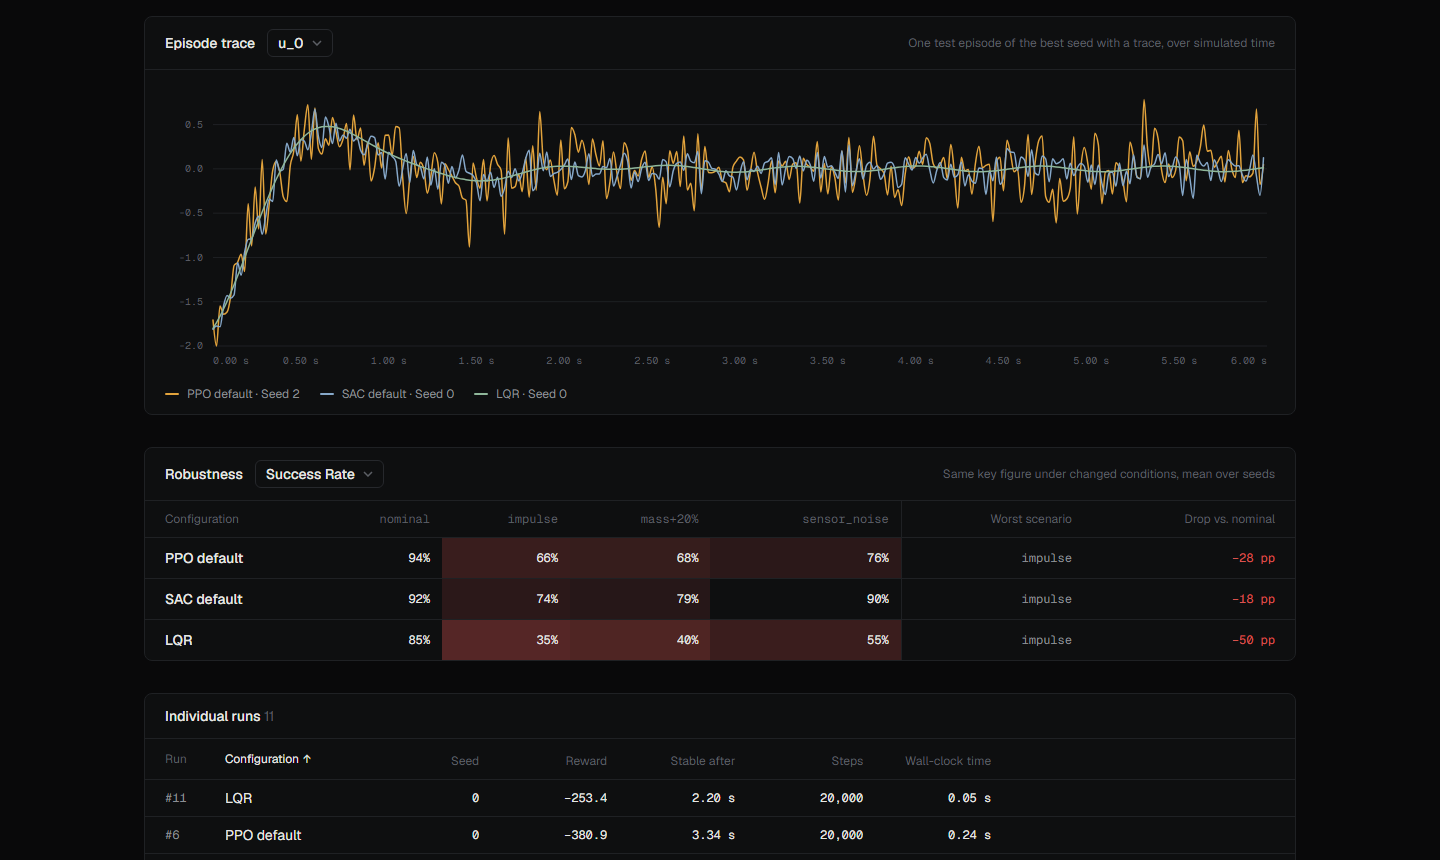
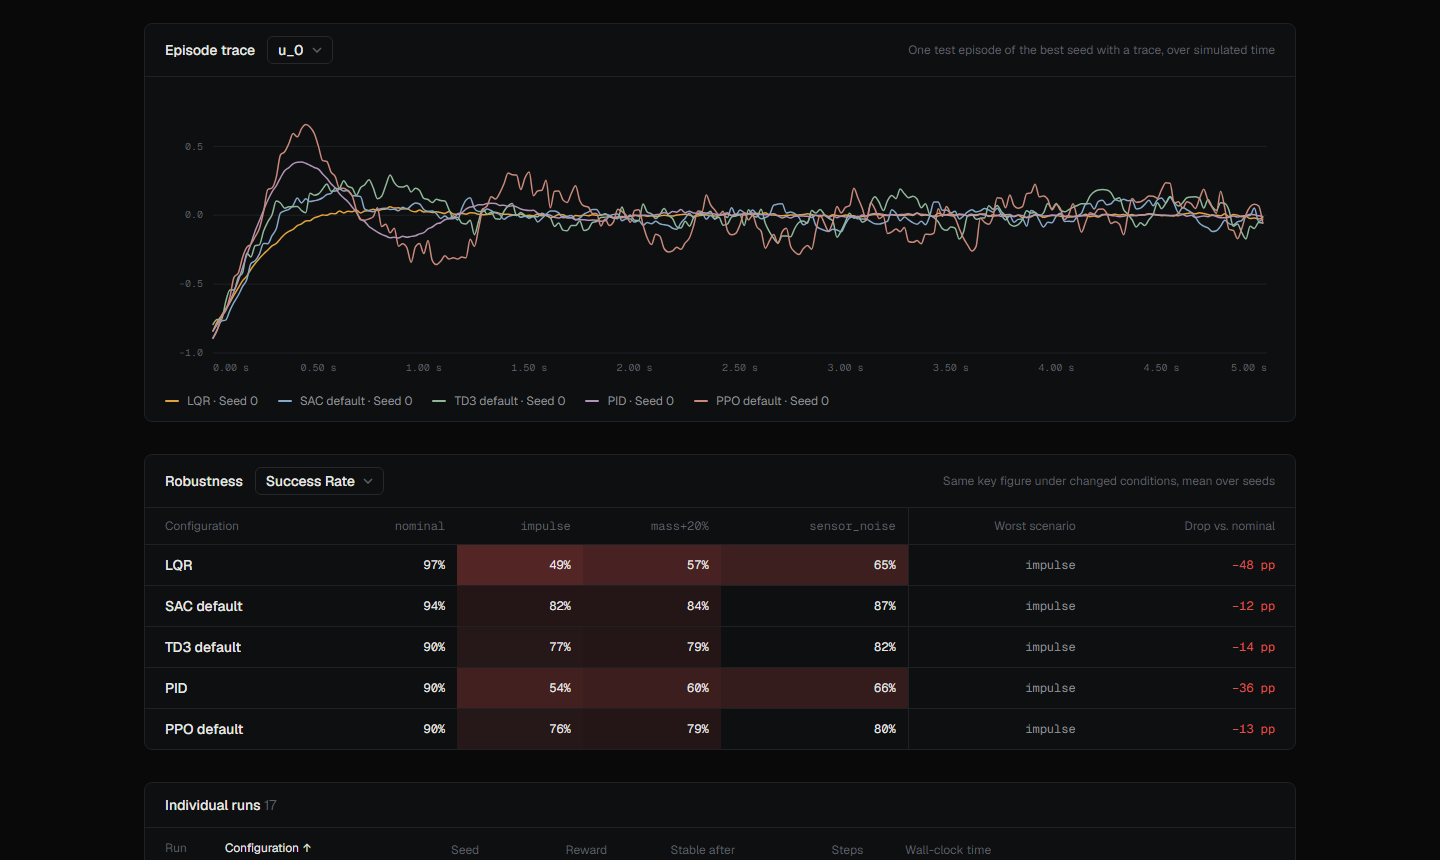
Demo: new GIF and screenshots with invented data in two categories
generate_demo_data.py creates six experiments (stabilization, positioning)
with SAC, PPO and TD3 learning curves over five seeds; LQR, PID and IK+PD
do not train and appear as reference lines.

diff --git a/docs/demo/generate_demo_data.py b/docs/demo/generate_demo_data.py
@@ -1,0 +1,146 @@
+"""Erzeugt die Demodaten für Screenshots und das Demo-GIF. ALLE WERTE SIND ERFUNDEN.
+
+Zwei Kategorien mit je drei Experimenten. RL-Controller (SAC, PPO, TD3) lernen über die Steps; klassische Regler
+(LQR, PID, IK+PD) trainieren nicht: Sie haben trains=False und nur einen einzigen Messpunkt, also keinen Verlauf.
+
+Aufruf gegen ein Backend mit LEERER Datenbank (nicht gegen deine echten Daten!):
+    python docs/demo/generate_demo_data.py --api http://127.0.0.1:8001
+"""
+
+import argparse
+import math
+import random
+
+import requests
+
+TOTAL_STEPS = 1_000_000
+LOG_EVERY = 10_000
+SCENARIOS = {"nominal": 0.0, "mass+20%": 1.0, "sensor_noise": 0.8, "impulse": 1.2}
+
+# Pro Controller: Lerngeschwindigkeit, Endniveau, Rechenzeit pro Step (s), Unruhe der Stellgröße,
+# Empfindlichkeit gegenüber Störungen, Stellaufwand.
+RL = {
+    "SAC": {"speed": 5.0, "level": 0.97, "cost": 0.0024, "jitter": 0.10, "sensitivity": 0.08, "effort": 1.0},
+    "PPO": {"speed": 2.2, "level": 0.93, "cost": 0.0007, "jitter": 0.22, "sensitivity": 0.10, "effort": 1.35},
+    "TD3": {"speed": 3.8, "level": 0.95, "cost": 0.0020, "jitter": 0.14, "sensitivity": 0.12, "effort": 1.15},
+}
+# Test-Episode je Controller: Abklingrate und Kreisfrequenz des Regelfehlers
+RESPONSE = {"SAC": (2.6, 5.0), "PPO": (1.5, 6.0), "TD3": (2.0, 4.4), "LQR": (3.4, 3.0), "PID": (1.8, 6.8), "IK+PD": (3.0, 4.0)}
+HYPERPARAMETERS = {
+    "SAC": {"learning_rate": 3e-4, "gamma": 0.99, "batch_size": 256, "net_arch": [256, 256]},
+    "PPO": {"learning_rate": 3e-4, "gamma": 0.99, "n_steps": 2048, "clip_range": 0.2},
+    "TD3": {"learning_rate": 1e-3, "gamma": 0.99, "policy_delay": 2, "target_noise": 0.2},
+    "LQR": {"Q": "diag(10, 1, 10, 1)", "R": 0.1},
+    "PID": {"Kp": 12.0, "Ki": 0.4, "Kd": 1.8},
+    "IK+PD": {"Kp": 40.0, "Kd": 4.0},
+}
+
+EXPERIMENTS = [
+    # Stabilisierung: klassische Regler sind nominal sehr gut, aber empfindlich gegenüber Störungen
+    {"name": "Cart-pole balance", "environment": "CartPole-continuous-v1", "category": "stabilization",
+     "difficulty": 0.00, "classical": {"LQR": (0.99, 0.30, 0.55), "PID": (0.95, 0.24, 0.70)}},
+    {"name": "Ball balancer", "environment": "BallBalancer-v0", "category": "stabilization",
+     "difficulty": 0.04, "classical": {"LQR": (0.97, 0.40, 0.60), "PID": (0.90, 0.30, 0.80)}},
+    {"name": "Inverted pendulum", "environment": "InvertedPendulum-v4", "category": "stabilization",
+     "difficulty": 0.02, "classical": {"LQR": (1.00, 0.28, 0.50), "PID": (0.96, 0.22, 0.65)}},
+    # Positionierung: der klassische IK+PD-Regler ist schnell, aber bei Störungen deutlich schwächer
+    {"name": "Reacher 2-DOF", "environment": "Reacher-v5", "category": "positioning",
+     "difficulty": 0.03, "classical": {"IK+PD": (0.92, 0.35, 0.75)}},
+    {"name": "Robot arm 3-DOF", "environment": "Arm3DOF-v0", "category": "positioning",
+     "difficulty": 0.08, "classical": {"IK+PD": (0.85, 0.45, 0.85)}},
+    {"name": "Drone to waypoint", "environment": "QuadrotorWaypoint-v0", "category": "positioning",
+     "difficulty": 0.06, "classical": {"PID": (0.80, 0.50, 0.90)}},
+]
+
+
+def clamp(value: float) -> float:
+    return max(0.0, min(1.0, value))
+
+
+def trace(controller: str, jitter: float, rng: random.Random) -> list[dict]:
+    """Test-Episode: Regelfehler schwingt gedämpft aus, zwei Stellgrößen regeln dagegen."""
+    points = []
+    noise = [0.0, 0.0]  # geglättetes Rauschen je Stellgröße, damit u nicht springt
+    for i in range(250):
+        t = i * 0.02
+        decay, omega = RESPONSE[controller]
+        error = 0.6 * math.exp(-decay * t) * math.cos(omega * t) + rng.gauss(0, 0.004 + jitter * 0.01)
+        points.append({"signal": "error", "t": round(t, 3), "value": round(error, 5)})
+        for axis in (0, 1):
+            noise[axis] = 0.85 * noise[axis] + rng.gauss(0, jitter * 0.3)
+            u = -1.4 * error * (1 if axis == 0 else 0.6) + noise[axis]
+            points.append({"signal": f"u_{axis}", "t": round(t, 3), "value": round(max(-1, min(1, u)), 5)})
+    return points
+
+
+def post(api: str, path: str, body):
+    res = requests.post(f"{api}{path}", json=body, timeout=60)
+    res.raise_for_status()
+    return res.json()
+
+
+def main() -> None:
+    parser = argparse.ArgumentParser()
+    parser.add_argument("--api", default="http://127.0.0.1:8001")
+    api = parser.parse_args().api
+
+    for spec in EXPERIMENTS:
+        experiment = post(api, "/experiments", {
+            "name": spec["name"], "environment": spec["environment"], "category": spec["category"],
+            "description": "Demo data generated by docs/demo/generate_demo_data.py. All values are invented.",
+        })
+        rng = random.Random(spec["name"])
+        difficulty = spec["difficulty"]
+
+        # RL: fünf Seeds, Lernkurven über 1 Mio. Steps
+        for controller, p in RL.items():
+            for seed in range(5):
+                speed = p["speed"] * rng.uniform(0.7, 1.3) * (1 - 2 * difficulty)
+                level = clamp(p["level"] - difficulty + rng.gauss(0, 0.015))
+                cost = p["cost"] * rng.uniform(0.85, 1.15)
+                metrics = []
+                for step in range(0, TOTAL_STEPS + 1, LOG_EVERY):
+                    progress = 1 - math.exp(-speed * step / TOTAL_STEPS)
+                    time = round(step * cost, 2)
+                    success = clamp(level * progress + rng.gauss(0, 0.018))
+                    metrics += [
+                        {"name": "success_rate", "step": step, "value": round(success, 4), "time": time},
+                        {"name": "episode_reward", "step": step, "value": round(-900 + 780 * progress + rng.gauss(0, 18), 2), "time": time},
+                        {"name": "control_effort", "step": step, "value": round(p["effort"] * (2.2 - progress) * 10 + rng.gauss(0, 0.4), 3), "time": time},
+                    ]
+                run = post(api, "/runs", {
+                    "experiment_id": experiment["id"], "controller": controller, "name": f"{controller} default",
+                    "seed": seed, "reward": metrics[-2]["value"], "hyperparameters": HYPERPARAMETERS[controller],
+                    "stability_time": round(rng.uniform(0.6, 1.8), 2) if level > 0.8 else None,
+                    "num_steps": TOTAL_STEPS, "duration": round(TOTAL_STEPS * cost, 1),
+                })
+                post(api, f"/runs/{run['id']}/metrics", metrics)
+                post(api, f"/runs/{run['id']}/evaluations", [
+                    {"scenario": s, "name": "success_rate", "value": round(clamp(level - p["sensitivity"] * d + rng.gauss(0, 0.02)), 3)}
+                    for s, d in SCENARIOS.items()
+                ] + [{"name": "control_effort", "value": round(p["effort"] * 12 * rng.uniform(0.95, 1.05), 2)}])
+                if seed == 0:
+                    post(api, f"/runs/{run['id']}/traces", trace(controller, p["jitter"], rng))
+
+        # Klassisch: ein Run, trains=False, genau ein Messpunkt, kein Verlauf
+        for controller, (nominal, sensitivity, effort_factor) in spec["classical"].items():
+            run = post(api, "/runs", {
+                "experiment_id": experiment["id"], "controller": controller, "name": controller, "trains": False,
+                "seed": 0, "reward": round(-120 - 300 * (1 - nominal), 1), "hyperparameters": HYPERPARAMETERS[controller],
+                "stability_time": round(rng.uniform(0.4, 0.9), 2), "num_steps": 0, "duration": round(rng.uniform(2, 6), 1),
+            })
+            post(api, f"/runs/{run['id']}/metrics", [
+                {"name": "success_rate", "step": 0, "value": nominal, "time": 0.0},
+                {"name": "control_effort", "step": 0, "value": round(12 * effort_factor, 2), "time": 0.0},
+            ])
+            post(api, f"/runs/{run['id']}/evaluations", [
+                {"scenario": s, "name": "success_rate", "value": round(clamp(nominal - sensitivity * d), 3)}
+                for s, d in SCENARIOS.items()
+            ] + [{"name": "control_effort", "value": round(12 * effort_factor, 2)}])
+            post(api, f"/runs/{run['id']}/traces", trace(controller, 0.01, rng))
+
+        print(f"{spec['name']}: angelegt")
+
+
+if __name__ == "__main__":
+    main()

diff --git a/README.md b/README.md
@@ -10,9 +10,9 @@ ControlBench is a local experiment tracker and benchmarking dashboard for reinfo
 
 > **Status: early development / public preview (v0.1.0).** The API may still change.
 
-![ControlBench demo: overview, experiment detail, learning curves over steps and wall-clock time, configuration comparison](docs/demo/controlbench-demo.gif)
+![ControlBench demo: overview with category filter, learning curves with LQR and PID as reference lines, wall-clock time, equal budget, confidence interval, configuration details, episode trace, robustness and category standings](docs/demo/controlbench-demo.gif)
 
-*Demo data generated by [`experiments/example_upload.py`](experiments/example_upload.py). These are not real training results.*
+*Demo data generated by [`docs/demo/generate_demo_data.py`](docs/demo/generate_demo_data.py): six invented experiments in two categories (stabilization, positioning). These are not real training results. Classical controllers (LQR, PID, IK+PD) do not train, so they appear as reference lines without a learning curve.*
 
 ## Why ControlBench?
 
@@ -44,7 +44,7 @@ RL results usually end up scattered across CSV files, TensorBoard runs, notebook
 
 | Overview | Experiment detail |
 |---|---|
-| ![Overview of all experiments with categories](docs/screenshots/overview.png) | ![SAC, PPO and LQR compared in one experiment; LQR as reference line](docs/screenshots/experiment.png) |
+| ![Overview of all experiments with categories](docs/screenshots/overview.png) | ![SAC, PPO and TD3 compared with LQR and PID in one experiment; classical controllers as reference lines](docs/screenshots/experiment.png) |
 | **Episode trace and robustness** | **Categories** |
 | ![Actuator command of a test episode and success rate per robustness scenario](docs/screenshots/trace-robustness.png) | ![Controller standings per task category](docs/screenshots/categories.png) |
 
